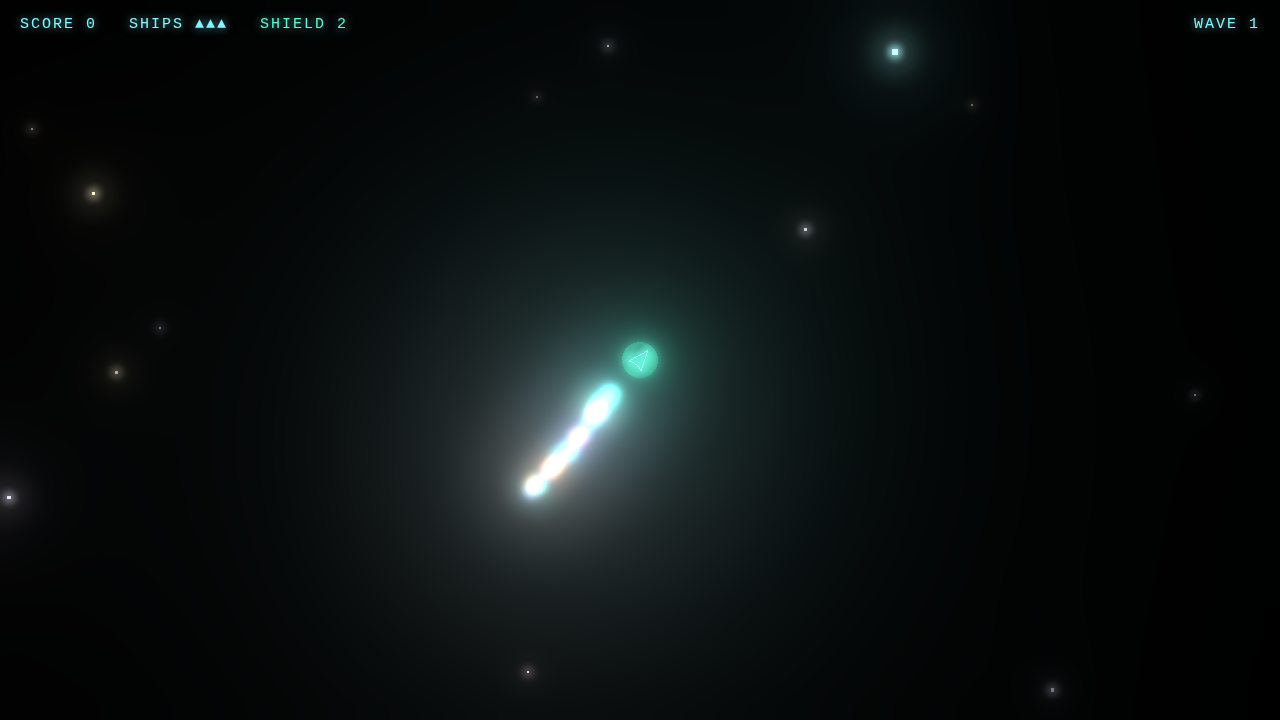
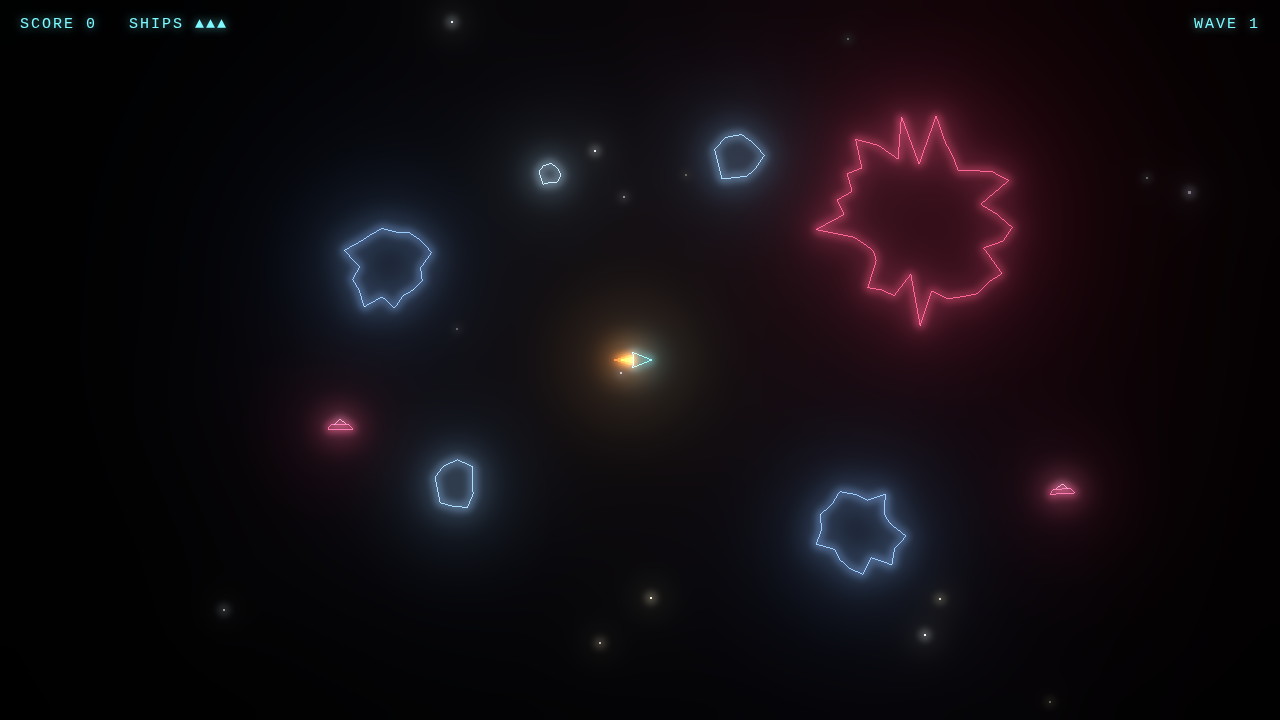
update screenshots and README
New gameplay screenshot: player centered with the fire-cone engine, a
super asteroid, normal rocks, and two saucers. New start-screen shot
with three saucers in the ambient world. README features updated for
density spawning, escalating saucers/supers, and the engine fire cone.

diff --git a/README.md b/README.md
@@ -2,15 +2,21 @@
 
 A neon vector-style Asteroids game built for the browser with [Three.js](https://threejs.org/) — infinite space, player-centered camera, asteroid splitting, flying saucers, power-ups, and bloom glow.
 
+*Gameplay — the ship at the center of an infinite field, flanked by a giant super asteroid, normal rocks, and a pair of hunting saucers:*
+
 ![Gameplay](screenshots/gameplay.png)
+
+*Start screen, with saucers already prowling the ambient world:*
 
 ![Main menu](screenshots/menu.png)
 
 ## Features
 
 - Player-centered camera over an infinite world — the ship stays centered while the universe moves around it
-- Asteroid hierarchy: Super → Large → Medium → Small → particle debris
-- Flying saucers with erratic sine-wave paths that aim for the player
+- Asteroids always spawn just off-screen near the player, keeping the field dense without dead space
+- Asteroid hierarchy: Super → Large → Medium → Small → particle debris — supers dwarf everything else and accumulate up to three at once as waves progress
+- Flying saucers with erratic sine-wave paths that aim for the player — more and more of them arrive over time, up to six at once
+- Animated fire-cone engine exhaust that flickers and scales with thrust
 - Power-ups: laser, multishot, shield
 - Bloom post-processing for vector line glow, screen shake, and directional particle splinters
 - Procedural audio: low-pass engine hum modulated by velocity, sub-bass explosions, pitch-shifted lasers
